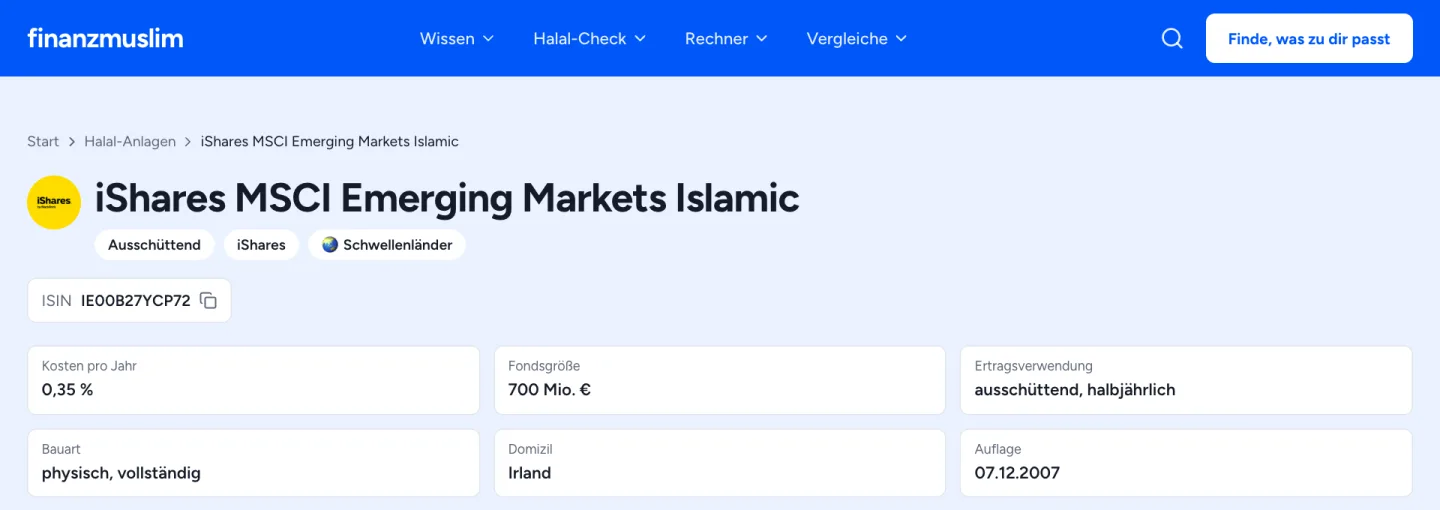
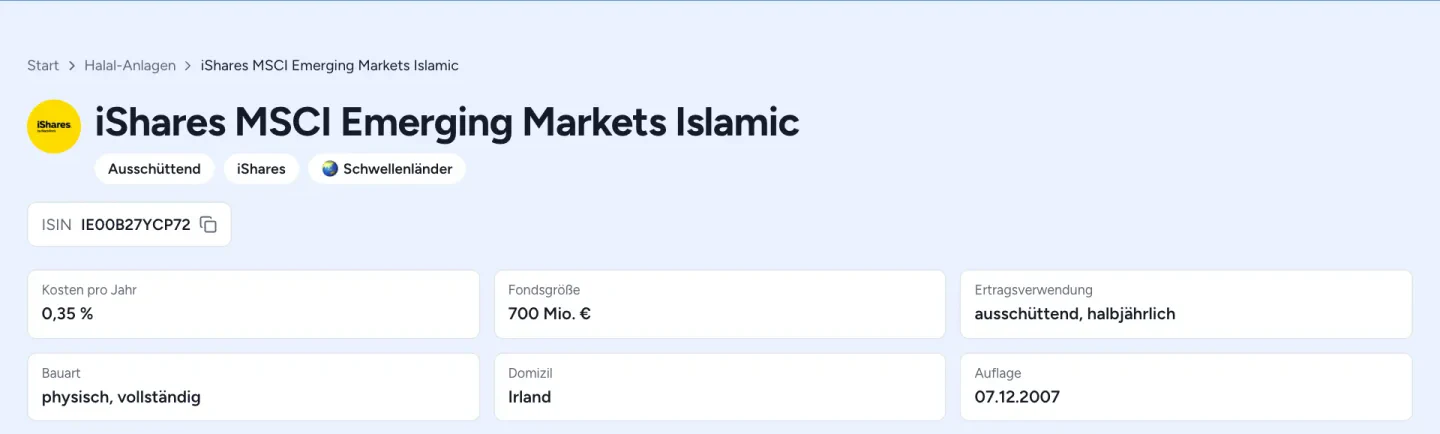
Halal ETF post: SEO34 text pass and two fresh reviews (humanizer fixes, AAOIFI source for purification, no eyebrow, 12 px labels, Fonds section with database numbers, Salam Sukuk evidence, laptop shots without header band, last trading day in footnote)

diff --git a/src/pages/blog/HalalEtf.tsx b/src/pages/blog/HalalEtf.tsx
@@ -35,6 +35,14 @@ const TITELBILD = "/bilder/blog/halal-etf/beste-halal-etfs-2026.jpg";
 const VEROEFFENTLICHT = { text: "16.08.2026", iso: "2026-08-16T09:00:00+02:00" };
 const AKTUALISIERT = { text: "02.11.2026", iso: "2026-11-02T09:00:00+01:00" };
 const INSTAGRAM = "https://www.instagram.com/finanz.muslim/";
+
+/** Stand der Kursreihe ist der Abruftag; fällt er aufs Wochenende, gilt der Freitag davor. */
+function letzterHandelstag(stand: string): string {
+  const [t, m, j] = stand.split(".").map(Number);
+  const d = new Date(Date.UTC(j, m - 1, t));
+  while (d.getUTCDay() === 0 || d.getUTCDay() === 6) d.setUTCDate(d.getUTCDate() - 1);
+  return `${String(d.getUTCDate()).padStart(2, "0")}.${String(d.getUTCMonth() + 1).padStart(2, "0")}.${d.getUTCFullYear()}`;
+}
 const YOUTUBE = "https://www.youtube.com/@finanz.muslim";
 /** LinkedIn-Profil von Elias (SOP About Page Z. 93, 145). */
 const LINKEDIN = "https://www.linkedin.com/in/elias-el-gendy-370616363/";
@@ -43,7 +51,7 @@ const VIDEO_ID = "uO0ZnlaFolw";
 /** Google „bevorzugte Quelle“: dorthin leitet auch Finanzfluss (link.finanzfluss.de, ?q=finanzfluss.de). */
 const GOOGLE_QUELLE = "https://www.google.com/preferences/source?q=finanzmuslim.com";
 const BIO =
-  "Elias El-Gendy hat die Sachkundeprüfungen nach § 34d und § 34f GewO abgeschlossen. Er berät Muslime zum islamkonformen Investieren und klärt auf Instagram (@finanz.muslim) über 15.000 Abonnenten über Halal Finance auf.";
+  "Elias El-Gendy hat die Sachkundeprüfungen nach §\u00a034d und §\u00a034f GewO abgeschlossen. Er berät Muslime zum islamkonformen Investieren. Auf Instagram (@finanz.muslim) erklärt er über 15.000 Abonnenten, wie Halal Finance funktioniert.";
 const RECHTSHINWEIS =
   "Dieser Beitrag dient ausschließlich zu Bildungszwecken, ist keine Fatwa und keine Anlageberatung. Die Rangfolge folgt den genannten Kriterien und ersetzt keine Prüfung deiner eigenen Lage. Zu Wertpapierleihe, synthetischer Nachbildung und zur Reinigung von Erträgen bestehen zwischen den Rechtsschulen und einzelnen Gremien unterschiedliche Auffassungen. Investitionen in Wertpapiere sind mit Risiken verbunden, bis hin zum Totalverlust. Vergangene Renditen sind kein Versprechen für die Zukunft.";
 /** Lesedauer in Minuten: Wörter im Beitrag (innerText von main article bei 390) durch 200, aufgerundet. */
@@ -65,7 +73,7 @@ const ABSCHNITTE: Abschnitt[] = [
   { id: "was-ist-ein-halal-etf", titel: "Was ein Halal ETF ist (und was nicht)" },
   { id: "so-haben-wir-verglichen", titel: "So haben wir verglichen", leiste: true },
   { id: "die-besten-halal-etfs", titel: "Die besten Halal ETFs 2026", leiste: true },
-  { id: "halal-etf-liste", titel: "Halal ETF Liste im Vergleich: welche Halal ETFs gibt es in Deutschland?", leiste: true, kurz: "Halal ETF Liste im Vergleich" },
+  { id: "halal-etf-liste", titel: "Halal ETF Liste im Vergleich: Welche Halal ETFs gibt es in Deutschland?", leiste: true, kurz: "Halal ETF Liste im Vergleich" },
   { id: "welcher-passt", titel: "Welcher Halal ETF zu dir passt" },
   { id: "halal-etf-oder-fonds", titel: "Halal ETF oder Halal Fonds: wo der Unterschied Geld kostet" },
   { id: "wo-kaufen", titel: "Wo du die acht ETFs kaufen kannst" },
@@ -118,7 +126,7 @@ const KRITERIEN: { name: string; text: string }[] = [
   },
   {
     name: "Reinigung",
-    text: "Ob der Fonds den kleinen unreinen Anteil selbst weitergibt oder ob du ihn ausrechnen musst. Bei Platz 1 (seit 2026) und Platz 5 macht es der Fonds, beim Sukuk entfällt er.",
+    text: "Ob der Fonds den kleinen unreinen Anteil selbst weitergibt oder ob du ihn ausrechnen musst. Bei Platz 1 (seit 2026) und Platz 5 macht es der Fonds, beim Sukuk ist es in der Regel nicht nötig.",
   },
   {
     name: "Verfügbarkeit",
@@ -185,7 +193,7 @@ const FRAGEN: Frage[] = [
   {
     frage: "Muss ich die Erträge eines Halal ETFs reinigen?",
     antwort:
-      "Nach verbreiteter Auffassung ja, wenn der Fonds es nicht selbst tut. Der iShares MSCI World Islamic (seit 2026) und der HSBC MSCI World Islamic Screened reinigen im Fonds, beim iShares USD Sukuk entfällt es. Bei den anderen gibst du den unreinen Anteil deiner Erträge weiter.",
+      "Nach dem AAOIFI-Standard ja, wenn der Fonds es nicht selbst tut. Der iShares MSCI World Islamic (seit 2026) und der HSBC MSCI World Islamic Screened reinigen im Fonds. Beim iShares USD Sukuk ist es in der Regel nicht nötig, weil er keine Aktien hält. Bei den anderen gibst du den unreinen Anteil deiner Erträge weiter.",
     link: { to: "/wissen/ertraege-reinigen", text: "So rechnest du die Reinigung" },
   },
 ];
@@ -215,7 +223,7 @@ const PASST_DAZU: { to: string; name: string; text: string }[] = [
   },
   { to: "/wissen/sind-aktien-halal", name: "Sind Aktien halal?", text: "Die Grenzwerte, nach denen ein Index prüft." },
   { to: "/wissen/ertraege-reinigen", name: "Aktienbereinigung", text: "Rechne aus, welchen Anteil du weitergibst." },
-  { to: "/wissen/sukuk", name: "Sukuk", text: "Versteh das Gegenstück zu Anleihen." },
+  { to: "/wissen/sukuk", name: "Sukuk", text: "Das islamische Gegenstück zu Anleihen, einfach erklärt." },
 ];
 
 /* ------------------------------------------------------------------ */
@@ -242,7 +250,7 @@ const Text = ({ children }: { children: ReactNode }) => (
 
 /** Kleines Etikett in Großbuchstaben mit Abstand, wie frontal „QUICK COMPARE“, „BEST FOR“. */
 const Etikett = ({ children, className = "" }: { children: ReactNode; className?: string }) => (
-  <p className={`font-mono text-[11px] uppercase tracking-[0.14em] text-muted-foreground ${className}`}>{children}</p>
+  <p className={`font-mono text-[12px] uppercase tracking-[0.14em] text-muted-foreground ${className}`}>{children}</p>
 );
 
 const Werbung = () => <Etikett>Werbung</Etikett>;
@@ -411,7 +419,7 @@ const RASTER = {
 
 const Klappzeile = ({ titel, zahl, children }: { titel: string; zahl?: number; children: ReactNode }) => (
   <details className="group border-t border-border">
-    <summary className="flex cursor-pointer list-none items-center justify-between py-3 font-mono text-[11px] uppercase tracking-[0.14em] text-foreground [&::-webkit-details-marker]:hidden">
+    <summary className="flex cursor-pointer list-none items-center justify-between py-3 font-mono text-[12px] uppercase tracking-[0.14em] text-foreground [&::-webkit-details-marker]:hidden">
       {titel}
       <span className="flex items-center gap-2 text-muted-foreground">
         {zahl}
@@ -452,7 +460,7 @@ const Karte = ({ e }: { e: EtfEintrag }) => {
         }`}
         style={RASTER}
       >
-        <span className="absolute left-3 top-3 border border-border bg-background px-1.5 py-0.5 font-mono text-[11px] tabular-nums text-foreground">
+        <span className="absolute left-3 top-3 border border-border bg-background px-1.5 py-0.5 font-mono text-[12px] tabular-nums text-foreground">
           {String(e.platz).padStart(2, "0")}
         </span>
         <img src={logoPfad(e.logo)} alt="" aria-hidden="true" width={40} height={40} className="h-10 w-10 object-contain" />
@@ -503,7 +511,7 @@ const Karte = ({ e }: { e: EtfEintrag }) => {
             <dl className="grid grid-cols-3 gap-2">
               {renditen.map(([zeit, wert]) => (
                 <div key={zeit}>
-                  <dt className="font-mono text-[10px] uppercase tracking-[0.12em] text-muted-foreground">{zeit}</dt>
+                  <dt className="font-mono text-[12px] uppercase tracking-[0.12em] text-muted-foreground">{zeit}</dt>
                   <dd className={`mt-0.5 whitespace-nowrap font-semibold tabular-nums ${wert ? "text-gain" : "text-muted-foreground"}`}>
                     {wert ?? "–"}
                   </dd>
@@ -622,7 +630,7 @@ const GoogleKasten = () => (
       <span className="block text-[18px] font-semibold leading-snug text-foreground md:text-[19px]">
         finanzmuslim als bevorzugte Quelle bei Google hinzufügen
       </span>
-      <span className="mt-1 block text-[15px] leading-snug text-muted-foreground">Unsere Vergleiche direkt in deiner Suche.</span>
+      <span className="mt-1 block text-[15px] leading-snug text-muted-foreground">Dann zeigt dir Google unsere Vergleiche öfter.</span>
     </span>
     <span className="inline-flex w-full items-center justify-center gap-1.5 bg-primary px-5 py-3 text-[15px] font-semibold text-primary-foreground transition-colors group-hover:bg-primary-hover md:w-auto">
       Hinzufügen
@@ -835,7 +843,7 @@ const Rechner = () => {
               >
                 <img src={logoPfad(x.logo)} alt="" aria-hidden="true" width={24} height={24} className="h-6 w-6 shrink-0 object-contain" />
                 <span className="min-w-0 text-[13px] leading-tight text-foreground">
-                  <span className="font-mono text-[11px] text-muted-foreground">{String(x.platz).padStart(2, "0")}</span> {kurz}
+                  <span className="font-mono text-[12px] text-muted-foreground">{String(x.platz).padStart(2, "0")}</span> {kurz}
                 </span>
               </button>
             );
@@ -858,7 +866,7 @@ const Rechner = () => {
               >
                 {/* Am Handy eine flache Zeile (links Zeitraum und Eingezahlt, rechts der Wert), damit die Kurve nah bleibt */}
                 <span className="block min-w-0">
-                  <span className="block font-mono text-[11px] uppercase tracking-[0.14em] text-muted-foreground">
+                  <span className="block font-mono text-[12px] uppercase tracking-[0.14em] text-muted-foreground">
                     Vor {jahre === 1 ? "1 Jahr" : `${jahre} Jahren`} angefangen
                   </span>
                   <span className="mt-1 block text-[14px] text-muted-foreground sm:mt-2">
@@ -889,10 +897,11 @@ const Rechner = () => {
         {aktiv?.erg && <Kurve erg={aktiv.erg} art={art} />}
 
         <p className="mt-4 text-[13px] leading-relaxed text-muted-foreground">
+          Tippst du auf eine Kachel, zeigt die Kurve ihren Zeitraum.{" "}
           {art === "einmal"
-            ? `Einmalig: Rendite von justETF in Euro mit Ausschüttungen, Stand ${RENDITE_STAND}. Die Kurve verbindet die Werte, die justETF für 5, 3 und 1 Jahr nennt.`
-            : `Jeden Monat: eine Rate je Monat zum Monatskurs, Wert zum Kurs vom ${kursStand} (Yahoo Finance, ohne Ausschüttungen). Bei Platz 1, 3, 4 und 8 liegt der echte Wert darum etwas höher.`}{" "}
-          Tipp auf eine Kachel für ihren Zeitraum. Ohne Kosten des Depots. Vergangene Renditen sind kein Versprechen für die Zukunft.
+            ? `Gerechnet mit den Renditen von justETF bis ${RENDITE_STAND}, mit Ausschüttungen. Die Kurve verbindet die Werte vor 5, 3 und 1 Jahr mit heute.`
+            : `Gerechnet mit den Monatskursen bis ${letzterHandelstag(kursStand)} (Yahoo Finance), ohne Ausschüttungen. Bei Platz 1, 3, 4 und 8 wäre es darum etwas mehr.`}{" "}
+          Ohne Kosten des Depots. Vergangene Renditen sind kein Versprechen für die Zukunft.
         </p>
       </div>
     </section>
@@ -965,7 +974,7 @@ const Eintrag = ({ e }: { e: EtfEintrag }) => {
       <Link to={`/halal-anlagen/${a.slug}`} className="mt-5 block overflow-hidden rounded-md border border-border">
         <picture>
           {/* Am Handy wäre die Laptop-Aufnahme unlesbar klein, darum dort der Handy-Ausschnitt derselben Seite */}
-          <source media="(min-width: 768px)" srcSet={`/bilder/blog/halal-etf/laptop/${a.slug}.webp`} width={1440} height={510} />
+          <source media="(min-width: 768px)" srcSet={`/bilder/blog/halal-etf/laptop/${a.slug}.webp`} width={1440} height={434} />
           <img
           src={`/bilder/blog/halal-etf/${a.slug}.webp`}
           alt={`${e.name} in der finanzmuslim Datenbank: ISIN ${e.isin}, Kosten ${a.kostenLabel} im Jahr, Fondsgröße und Auflage`}
@@ -1006,7 +1015,7 @@ const KleineTabelle = ({
       <thead className="hidden sm:table-header-group">
         <tr className="border-b border-border bg-muted/60 text-left">
           {kopf.map((k) => (
-            <th key={k} className="px-4 py-3 font-mono text-[11px] font-normal uppercase tracking-[0.14em] text-muted-foreground">
+            <th key={k} className="px-4 py-3 font-mono text-[12px] font-normal uppercase tracking-[0.14em] text-muted-foreground">
               {k}
             </th>
           ))}
@@ -1023,7 +1032,7 @@ const KleineTabelle = ({
               <td
                 key={kopf[i + 1]}
                 data-label={kopf[i + 1]}
-                className={`align-top text-foreground/80 before:block before:font-mono before:text-[10px] before:uppercase before:tracking-[0.14em] before:text-muted-foreground before:content-[attr(data-label)] sm:table-cell sm:px-4 sm:py-3 sm:before:hidden ${
+                className={`align-top text-foreground/80 before:block before:font-mono before:text-[12px] before:uppercase before:tracking-[0.14em] before:text-muted-foreground before:content-[attr(data-label)] sm:table-cell sm:px-4 sm:py-3 sm:before:hidden ${
                   breit.includes(i) ? "col-span-2" : ""
                 }`}
               >
@@ -1087,7 +1096,7 @@ const HalalEtf = () => {
               <div className="mt-3">{inhalt}</div>
               <div className="mt-6 border border-border bg-card p-5">
                 <Etikett className="text-primary">Dein Vermögensaufbau</Etikett>
-                <p className="font-titel mt-2.5 text-[21px] leading-[1.2] text-foreground">Langfristig investieren, ohne einen Cent Riba?</p>
+                <p className="font-titel mt-2.5 text-[21px] leading-[1.2] text-foreground">Langfristig investieren, ohne einen Cent Zinsen vom Depot?</p>
                 <p className="mt-2.5 text-[14px] leading-relaxed text-foreground/75">
                   In 2 Minuten siehst du, welches Depot deine Halal ETFs als Sparplan führt und dir keine Zinsen zahlt.
                 </p>
@@ -1111,7 +1120,6 @@ const HalalEtf = () => {
             </nav>
 
             <article className="mt-8">
-              <Etikett className="text-primary">Halal ETFs</Etikett>
               <h1 className="font-titel mt-3 text-[32px] leading-[1.1] text-foreground md:text-[42px]">
                 <span className="block">Beste Halal ETFs 2026:</span> <span className="block">8 im Vergleich</span>
               </h1>
@@ -1177,7 +1185,6 @@ const HalalEtf = () => {
                 {/* 5 Das Wichtigste wie frontal „Key Takeaways“ */}
                 <section className="mt-10 border-l-2 border-primary bg-muted px-5 py-6 md:px-8 md:py-7">
                   <H2 id="das-wichtigste" />
-                  <p className="mt-1.5 text-[15px] text-muted-foreground">Die kurze Fassung, bevor es ins Detail geht.</p>
                   <ul className="mt-5 space-y-3.5 text-[16px] leading-[1.6] text-foreground/75">
                     {WICHTIGSTES.map((w) => (
                       <li key={w.lead} className="flex gap-3">
@@ -1190,7 +1197,7 @@ const HalalEtf = () => {
                   </ul>
                   <p className="mt-5 text-[14px] text-muted-foreground">
                     Neu beim Thema? Im kostenlosen <TL to="/halal-guide">Halal Investment Guide</TL> erkläre ich die
-                    Grundlagen in deiner Stufe.
+                    Grundlagen Schritt für Schritt.
                   </p>
                 </section>
 
@@ -1208,8 +1215,8 @@ const HalalEtf = () => {
                     </p>
                     <p>
                       Geprüft wird zweimal. Zuerst der Index: Womit verdient die Firma ihr Geld? Wie hoch sind ihre verzinsten
-                      Schulden? Wie viel liegt zinsbringend in der Bilanz? Wer über einem Grenzwert liegt, ist raus. Die
-                      Grenzwerte stehen in <TL to="/wissen/sind-aktien-halal">Sind Aktien halal?</TL>
+                      Schulden? Wie viel liegt zinsbringend in der Bilanz? Wer über einem Grenzwert liegt, ist raus. Welche
+                      Grenzwerte gelten, steht im Beitrag <TL to="/wissen/sind-aktien-halal">Sind Aktien halal?</TL>
                     </p>
                     <p>
                       Danach der Fonds selbst. Er kann einen sauberen Index nachbilden und trotzdem Aktien verleihen. Oder er
@@ -1257,7 +1264,7 @@ const HalalEtf = () => {
                   <Text>
                     <p>
                       Die Reihenfolge folgt den vier Kriterien oben, nicht der Rendite. Platz 1 hat
-                      den Beleg am Fonds, reinigt selbst und läuft bei den meisten Depots als Sparplan. Die Plätze 2 bis 7 decken je einen bestimmten Wunsch ab, Platz 8 kauft keine
+                      den Beleg am Fonds, reinigt selbst und läuft bei mehr Depots als Sparplan als jeder andere ETF hier. Die Plätze 2 bis 7 decken je einen bestimmten Wunsch ab, Platz 8 kauft keine
                       Aktien, sondern Sukuk.
                     </p>
                     <p>
@@ -1273,7 +1280,7 @@ const HalalEtf = () => {
                           <div className="mt-8">
                             <Text>
                               <p>
-                                Lieber hören als lesen? Im Video erkläre ich, worauf du achten musst, damit ein ETF halal ist.
+                                Lieber hören als lesen? Im Video erkläre ich, woran du erkennst, ob ein ETF halal ist.
                               </p>
                             </Text>
                             <Video />
@@ -1287,6 +1294,12 @@ const HalalEtf = () => {
                 {/* 11 Tabellen wie frontal: wenige Spalten, kurze Wörter */}
                 <section className="mt-14">
                   <H2 id="halal-etf-liste" />
+                  <Text>
+                    <p>
+                      Ich habe 12 Halal ETFs gefunden, die du in Deutschland kaufen kannst. Acht stehen in dieser Liste, die
+                      übrigen vier unter der Renditetabelle.
+                    </p>
+                  </Text>
                   <KleineTabelle
                     kopf={["ETF", "Kosten", "Halal-Beleg", "Passt zu"]}
                     breit={[2]}
@@ -1304,8 +1317,8 @@ const HalalEtf = () => {
                     })}
                   />
                   <p className="font-titel mt-7 max-w-[664px] border-l-2 border-primary pl-5 text-[20px] leading-[1.4] text-foreground">
-                    Platz 1 verbindet ein Gremium am Fonds mit 0,30 % Kosten und dem Sparplan bei 14 Depots, mehr als bei
-                    jedem anderen ETF hier.
+                    Platz 1 hat ein Gremium am Fonds, kostet 0,30 % und läuft bei 14 Depots als Sparplan, bei keinem anderen
+                    ETF hier so oft.
                   </p>
                   <p className="font-titel mt-10 text-[21px] leading-tight text-foreground">Rendite im Vergleich</p>
                   <KleineTabelle
@@ -1327,14 +1340,16 @@ const HalalEtf = () => {
                   </p>
                   <Text>
                     <p>
-                      Außerdem in Deutschland zu haben, ohne belegten Sparplan:{" "}
+                      Außerdem in Deutschland zu haben:{" "}
                       <TL to="/halal-anlagen/hsbc-msci-usa-islamic-screened">HSBC MSCI USA Islamic Screened</TL>,{" "}
                       <TL to="/halal-anlagen/hsbc-msci-europe-islamic-screened">HSBC MSCI Europe Islamic Screened</TL> und{" "}
                       <TL to="/halal-anlagen/hsbc-msci-emerging-markets-islamic-screened-capped">
                         HSBC MSCI Emerging Markets Islamic Screened
                       </TL>
-                      , je 0,30 bis 0,35 % im Jahr. Dazu der{" "}
-                      <TL to="/halal-anlagen/xtrackers-ii-salam-usd-global-aggregate-sukuk">Xtrackers Salam Sukuk</TL>: Sparplan belegt, aber ein veröffentlichtes Shariah-Zertifikat haben wir nicht gefunden.
+                      , je 0,30 bis 0,35 % im Jahr, einen Sparplan hat uns dafür kein Depot belegt. Dazu der{" "}
+                      <TL to="/halal-anlagen/xtrackers-ii-salam-usd-global-aggregate-sukuk">Xtrackers Salam Sukuk</TL> mit belegtem Sparplan.
+                      Laut Verkaufsprospekt berät ihn ASB Capital in Shariah-Fragen, ein veröffentlichtes Zertifikat haben wir nicht
+                      gefunden.
                     </p>
                   </Text>
                 </section>
@@ -1369,9 +1384,11 @@ const HalalEtf = () => {
                       Ein Halal ETF folgt meist einem Index und wird an der Börse gehandelt. Einen Ausgabeaufschlag zahlst du nicht, nur die Ordergebühr deines Depots.
                     </p>
                     <p>
-                      Ein Halal Fonds wird meist aktiv gemanagt, ein Team wählt die Firmen aus. Viele dieser Fonds verlangen beim
-                      Kauf einen Ausgabeaufschlag, etwa die Shariah-Fonds von Comgest, Franklin und BNP. Für einen Sparplan über
-                      viele Jahre ist der ETF darum meist günstiger. Platz 7 liegt dazwischen: ein aktiver Fonds im ETF-Mantel.
+                      Ein Halal Fonds wird meist aktiv gemanagt, ein Team wählt die Firmen aus. Ein aktiver Shariah-Fonds aus
+                      unserer Datenbank kostet 1,81&nbsp;% im Jahr, Platz 1 kostet 0,30&nbsp;%. Bei 10.000&nbsp;€ sind das 181&nbsp;€
+                      gegen 30&nbsp;€, jedes Jahr. Kaufst du direkt bei der Fondsgesellschaft, kommt dort ein Ausgabeaufschlag von
+                      5,54&nbsp;% dazu. Für einen Sparplan über viele Jahre ist der ETF darum meist günstiger. Platz 7 liegt
+                      dazwischen: ein aktiver Fonds im ETF-Mantel.
                     </p>
                   </Text>
                 </section>

diff --git a/src/data/halalEtfListe.ts b/src/data/halalEtfListe.ts
@@ -72,7 +72,7 @@ export const etfListe: EtfEintrag[] = [
       "Er ist seit Dezember 2007 am Markt und mit 1.577 Mio. € der größte Fonds dieser Liste. Ein so alter Fonds hat echte Zahlen aus fast zwei Jahrzehnten, auch aus schlechten Jahren.",
       "Was ihn von den anderen trennt, ist der Beleg. Laut Verkaufsprospekt prüft ihn ein eigenes Gremium bei iShares, das eine Fatwa erteilt hat und jedes Jahr ein Zertifikat ausstellt. Seit 2026 reinigt er die Ausschüttungen selbst im Fonds.",
       "Er kostet 0,30 % im Jahr, bei 10.000 € also 30 €. Einen Sparplan darauf haben uns 14 Depots belegt, so viele wie bei keinem anderen ETF hier. Kaufen kannst du ihn bei 27 Depots.",
-      "Wo er aufhört: Er schüttet zweimal im Jahr aus, das Geld legst du selbst wieder an. Schwellenländer wie China oder Indien sind nicht drin.",
+      "Er schüttet zweimal im Jahr aus, das Geld legst du selbst wieder an. Schwellenländer wie China oder Indien sind nicht drin.",
     ],
     passt: "du mit einem einzigen ETF anfangen willst",
     dafuer: ["Eigenes Gremium mit Fatwa und Zertifikat jedes Jahr.", "Sparplan bei 14 Depots, so oft wie bei keinem hier.", "Reinigt seit 2026 selbst im Fonds."],
@@ -94,13 +94,13 @@ export const etfListe: EtfEintrag[] = [
     absaetze: [
       "Er folgt dem Islamic-Index von Dow Jones statt MSCI. Darum stecken teils andere Firmen drin als bei Platz 1, die Idee ist dieselbe: Industrieländer, geprüft nach islamischen Regeln.",
       "Er schüttet nicht aus. Gewinne bleiben im Fonds und arbeiten weiter, du musst nichts selbst neu anlegen.",
-      "Mit 1.046 Mio. € ist er der zweitgrößte Fonds der Liste, am Markt seit Januar 2022. Er kostet 0,40 % im Jahr, also 40 € bei 10.000 €, mehr als jeder andere passive Welt-ETF hier.",
+      "Mit 1.046 Mio. € ist er der zweitgrößte Fonds der Liste, am Markt seit Januar 2022. Er kostet 0,40 % im Jahr, also 40 € bei 10.000 €, mehr als jeder andere passive Aktien-ETF hier.",
       "Den Beleg hat Amanie Advisors ausgestellt, ein Shariah-Zertifikat für genau diesen ETF. Es ist vom 15. Oktober 2024 und gilt für das Geschäftsjahr 2023. Ein neueres haben wir nicht gefunden.",
       "Einen Sparplan haben uns 5 Depots belegt, kaufen kannst du ihn bei 17.",
     ],
     passt: "Gewinne im Fonds bleiben sollen",
     dafuer: ["Keine Ausschüttung, die du selbst anlegen musst.", "Eigenes Zertifikat für genau diesen ETF."],
-    dagegen: ["Teuerster passiver Welt-ETF der Liste.", "Jüngstes gefundenes Zertifikat gilt für 2023."],
+    dagegen: ["Teuerster passiver Aktien-ETF der Liste.", "Jüngstes gefundenes Zertifikat gilt für 2023."],
     geprueftText:
       "Amanie Advisors hat ein Shariah-Zertifikat für genau diesen ETF ausgestellt, am 15. Oktober 2024 für das Geschäftsjahr 2023. Ein neueres haben wir nicht gefunden.",
   },
@@ -120,7 +120,7 @@ export const etfListe: EtfEintrag[] = [
       "Er kauft nur Firmen aus den USA, geprüft nach denselben Regeln wie Platz 1. Dasselbe Gremium bei iShares hat eine Fatwa erteilt und stellt jedes Jahr ein Zertifikat aus.",
       "Seit Dezember 2007 am Markt, 609 Mio. € groß, 0,30 % Kosten im Jahr.",
       "Einen Sparplan haben uns 8 Depots belegt, kaufen kannst du ihn bei 24. Er schüttet aus, das Geld legst du selbst wieder an.",
-      "Wo er aufhört: Ein Land ist ein Klumpen. Läuft es in den USA schlecht, trifft es den ganzen Fonds, und kein anderes Land fängt das auf.",
+      "Alles steckt in einem Land. Läuft es in den USA schlecht, trifft es den ganzen Fonds, und kein anderes Land fängt das auf.",
     ],
     passt: "du gezielt auf die USA setzen willst",
     dafuer: ["Gremium mit Fatwa wie Platz 1.", "Sparplan bei 8 Depots belegt."],
@@ -143,7 +143,7 @@ export const etfListe: EtfEintrag[] = [
       "Er kauft Firmen aus Schwellenländern wie China und Indien, die in Platz 1 fehlen. Geprüft wird er vom selben Gremium bei iShares wie Platz 1.",
       "Die Schwankung ist groß. 2024 lag er bei minus 2,06 %, 2025 bei plus 32,08 %. Darum steht er hier als Beimischung neben einem Welt-ETF, nicht als einziger ETF.",
       "Seit Dezember 2007 am Markt, 700 Mio. € groß, 0,35 % Kosten im Jahr. Einen Sparplan haben uns 9 Depots belegt, kaufen kannst du ihn bei 23.",
-      "Wo er aufhört: Er schüttet aus, und allein deckt er nur einen Teil der Welt ab.",
+      "Er schüttet aus, und allein deckt er nur einen Teil der Welt ab.",
     ],
     passt: "du neben Platz 1 einen kleinen Teil Schwellenländer willst",
     dafuer: ["Gremium mit Fatwa wie Platz 1.", "Sparplan bei 9 Depots belegt."],
@@ -165,7 +165,7 @@ export const etfListe: EtfEintrag[] = [
     absaetze: [
       "Er folgt dem MSCI World Islamic Screened, also ebenfalls Firmen aus Industrieländern nach islamischen Regeln, und kostet 0,30 % im Jahr, so viel wie Platz 1.",
       "Anders als Platz 1 schüttet er nicht aus. Den kleinen unreinen Anteil gibt er selbst als Spende weiter.",
-      "Zwei Haken hat er. Einen Sparplan hat uns kein Anbieter belegt. Und der Halal-Beleg betrifft nur den Index: MSCI lässt die Methodik von einem Ausschuss islamischer Gelehrter freigeben, für den Fonds selbst gibt es kein eigenes Zertifikat.",
+      "Zwei Dinge solltest du wissen. Einen Sparplan hat uns kein Anbieter belegt. Und der Halal-Beleg betrifft nur den Index: MSCI lässt die Methodik von einem Ausschuss islamischer Gelehrter freigeben, für den Fonds selbst gibt es kein eigenes Zertifikat.",
       "Seit November 2022 am Markt, 182 Mio. € groß, kaufbar bei 9 Depots.",
     ],
     passt: "du einmal anlegst und nichts ausgeschüttet haben willst",
@@ -240,7 +240,7 @@ export const etfListe: EtfEintrag[] = [
       "Seit Januar 2024 am Markt, 160 Mio. € groß, 0,40 % Kosten im Jahr. Einen Sparplan haben uns 3 Depots belegt, kaufen kannst du ihn bei 19.",
     ],
     passt: "ein Teil deines Geldes nicht in Aktien liegen soll",
-    dafuer: ["Eigenes Sukuk-Gremium mit Fatwa.", "Ausschüttung jedes Quartal."],
+    dafuer: ["Eigenes Sukuk-Gremium mit Fatwa.", "Zahlt dir jedes Quartal Erträge aus."],
     dagegen: ["Der Dollarkurs schwankt mit.", "Teurer als Platz 1."],
     geprueftText:
       "Laut Verkaufsprospekt von iShares II plc hat dieser Fonds ein eigenes Sukuk Fund Panel, besetzt mit dem Shariah-Board von Amanie Advisors. Es hat eine Fatwa erteilt und stellt jedes Jahr ein Zertifikat aus.",
